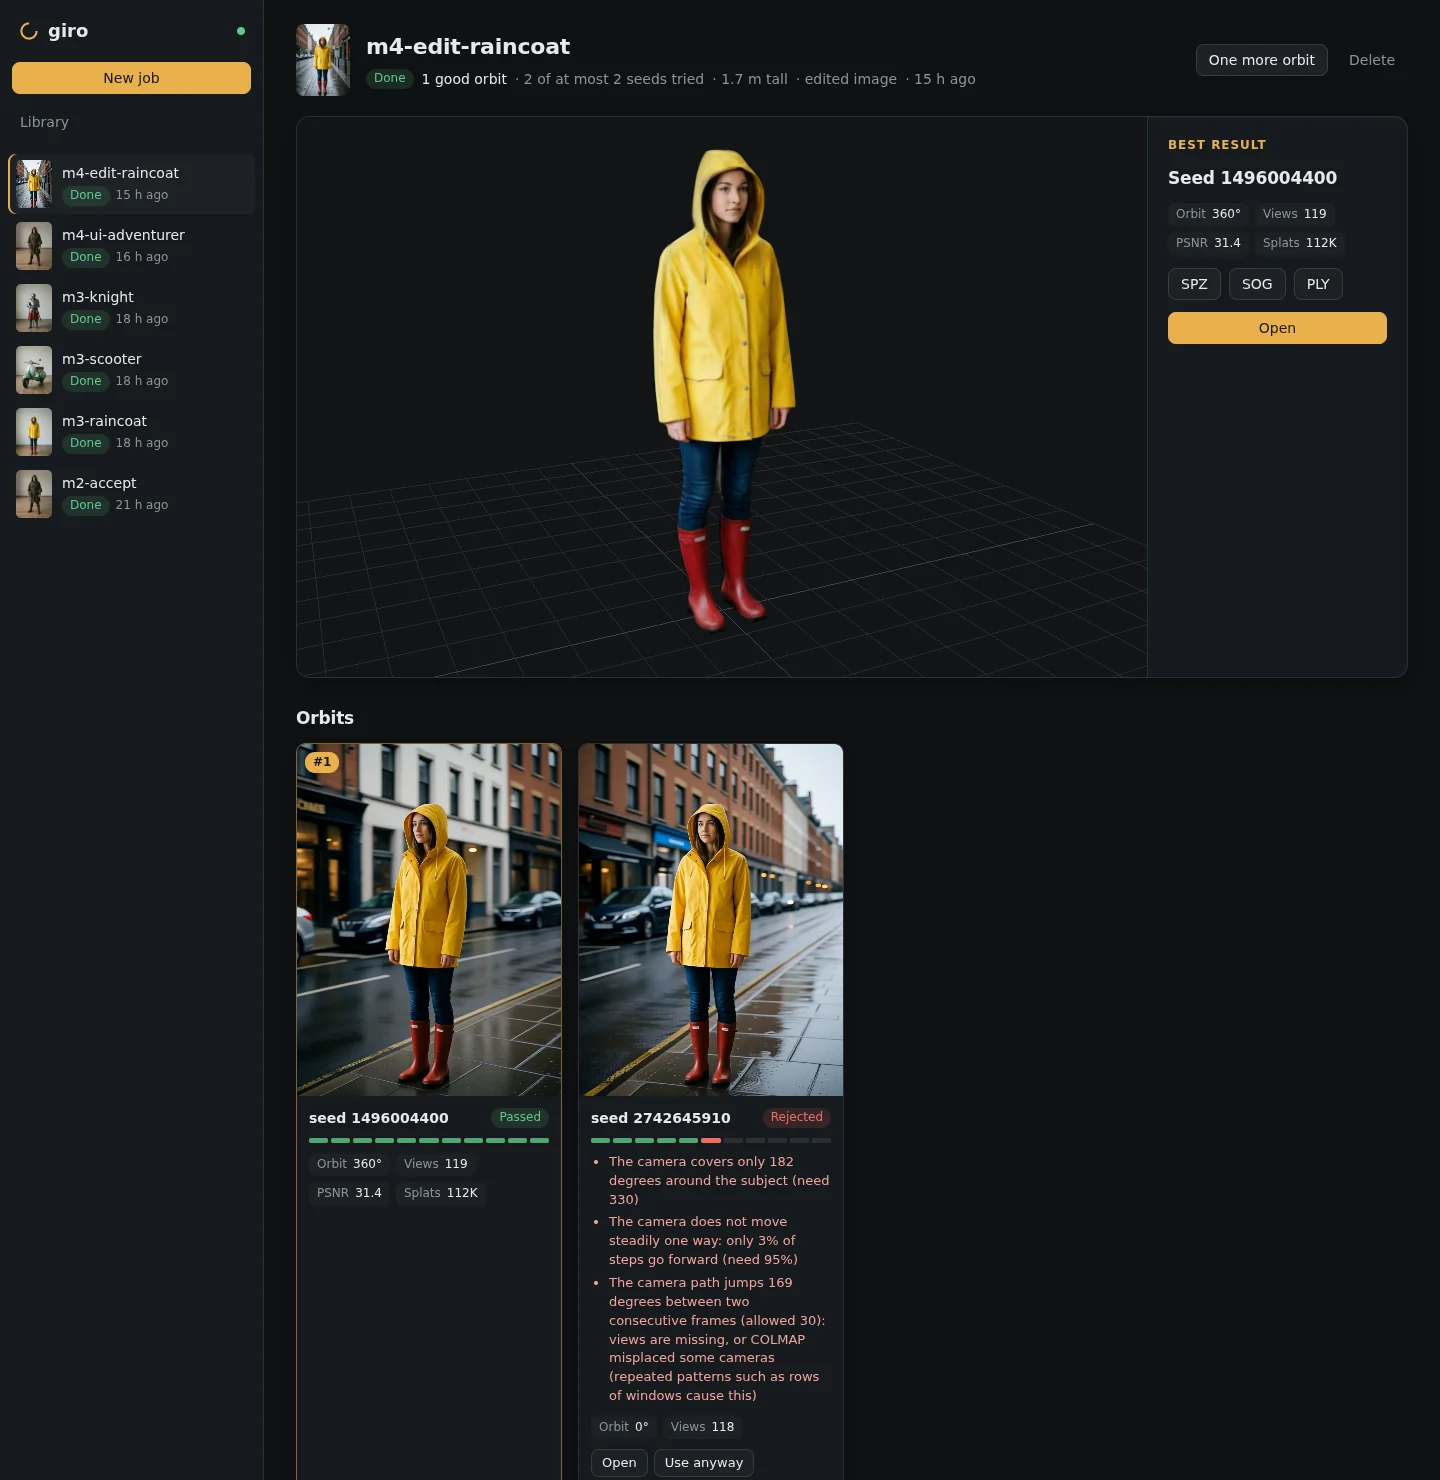
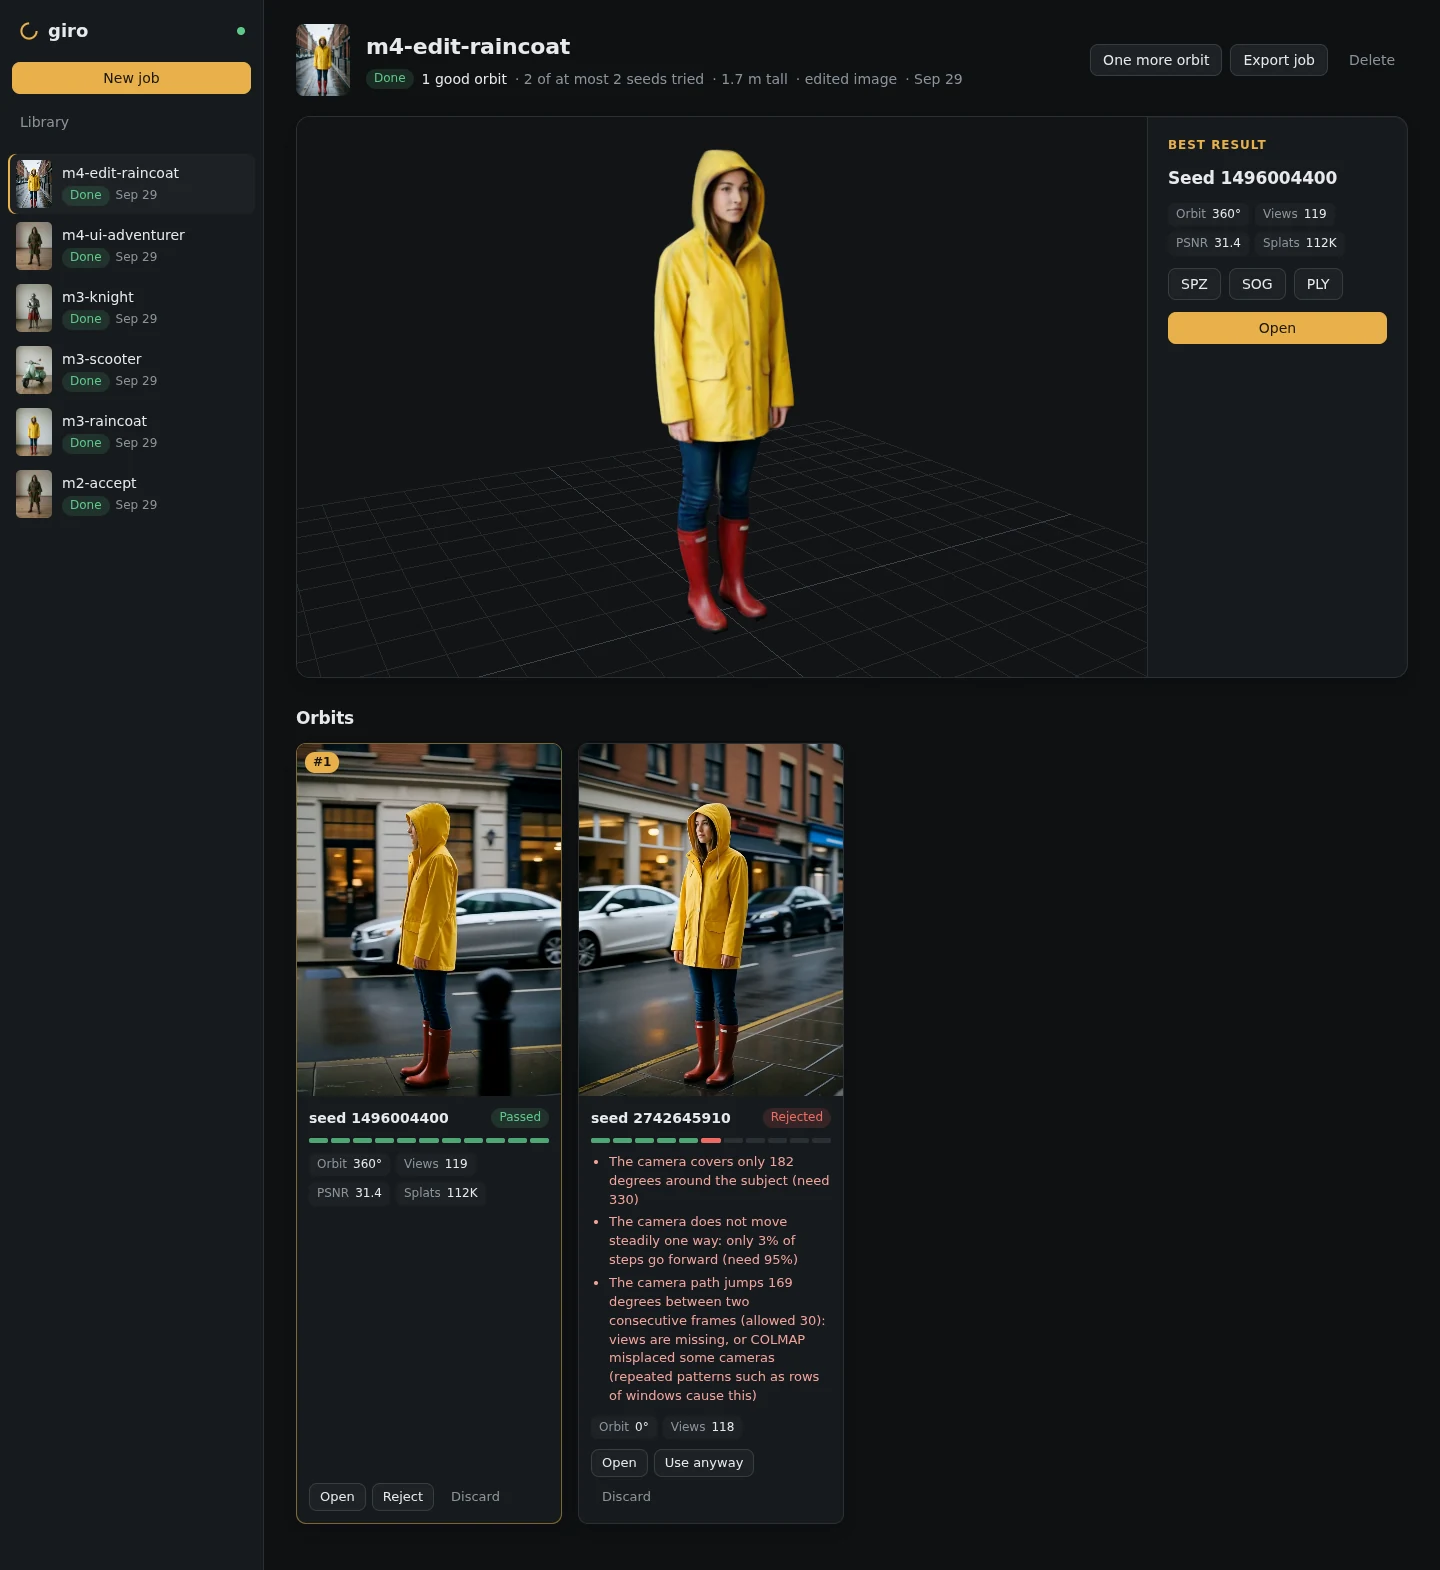
README: Job screenshot with the Export job button
Taken from a server whose library holds only the generated sample subjects, at
the page's full height so the sidebar runs to the bottom.

diff --git a/README.md b/README.md
@@ -60,7 +60,7 @@ because it covered only 182° and jumped 169° in one step.
 each good seed's result, orbit, cameras, training curve and numbers, plus its splat as PLY, SOG
 and SPZ.
 
-<img src="docs/images/job.webp" alt="Job page: best result viewer on top, two seed cards below, one passed and one rejected with reasons" width="900">
+<img src="docs/images/job.webp" alt="Job page: One more orbit and Export job in the header, best result viewer on top, two seed cards below, one passed and one rejected with reasons" width="900">
 
 ### Result
 The cropped splat with its size, its splat count against the Quest budget, downloads, and a
